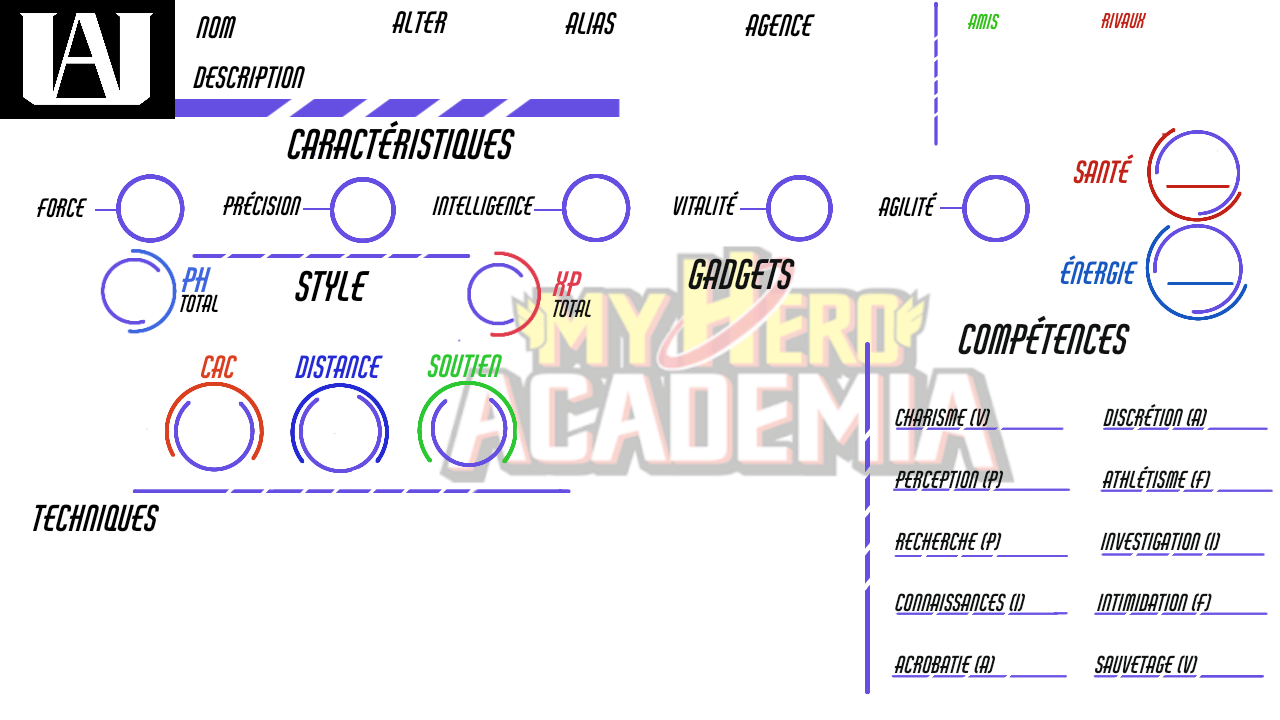
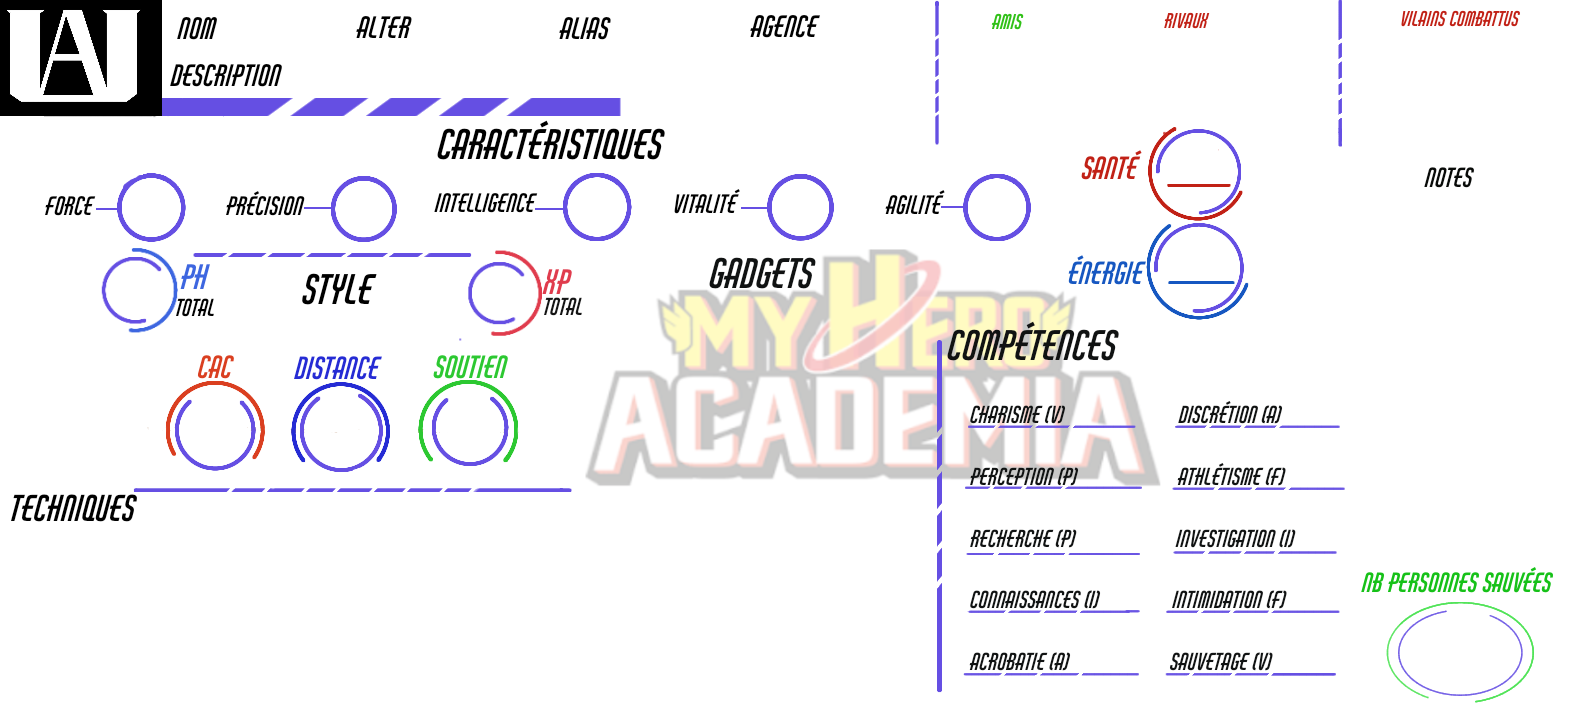
Background's size updated

diff --git a/characterSheet.css b/characterSheet.css
@@ -178,12 +178,12 @@ textarea{
     position:absolute;
    background:white;
     /*border:1px solid black;*/
-    width:270px;
-    max-width:270px;
+    width:230px;
+    max-width:230px;
     height:310px;
     max-height:310px;
-    top:400px;
-    left:590px;
+    top:300px;
+    left:620px;
     overflow-x:hidden;
     overflow-y:scroll;
      font-family:bushido;
